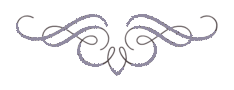
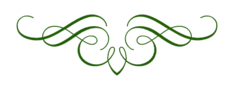
trying out florishes

diff --git a/index.html b/index.html
@@ -20,12 +20,8 @@
 		<div class="l-main-div">
 			<div class="l-main-content">
 				<h1>Kristie & Brandon</h1>
-				<img src="img/florish01.png" id="florish">
-				<p id="title-details">
-					<span class="large-type">Saturday, 5 July 2014</span><br/>
-					<span>at</span><br/>
-					<span class="large-type">California Academy of Sciences</span>
-				</p>
+				<img src="img/florish02.png" id="florish">
+				<br/>
 				<img src="img/kb.jpg" id="fungtoy">
 				<div class="categories">
 					<ul>
@@ -44,6 +40,7 @@
 			<div class="l-content-div" id="adventure">
 				<div class="section">
 					<h2>How We Met</h2>
+					<img src="img/florish03.png" class="florish-mini">
 					<p>
 						Brandon and Kristie started working together in the Finance Department at Rocketdyne in 2007. What started out as group co-worker lunches and a mutual dislike of work quickly developed into a close friendship once they realized they shared more than those two common interests. One likeness that caught both their attention was their music libraries - meticulously organized by period, genre, artist, and album. Kristie's heart went pitter-patter at the sight of Brandon's five page list of music she loved.
 					</p>
@@ -53,6 +50,7 @@
 				</div>
 				<div class="section">
 					<h2>The Engagement</h2>
+					<img src="img/florish03.png" class="florish-mini">
 					<p>Friday the 13th, December 2013:</p>
 					<p>
 						I came home from a girl's night out and Brandon suggested exchanging Christmas presents early because I was headed home to Daly City to spend Christmas with my family. As soon as he suggested it, I started running around the house searching every room for my present. He finally made me sit on the couch and told me not to move. I sat impatiently waiting... until Brandon brought a HUGE box from the back room. He was having trouble dragging the box out -- and for some reason, I got it in my head that the gift was a puppy! While he dragged the box, he accidentally kicked it and I thought, "Oh my god, a puppy!!! Wait -- oh my god, I'm not ready for a puppy! I'm leaving in a couple days! It's going to tear the house apart!"
@@ -63,6 +61,7 @@
 				</div>
 				<div class="section">
 					<h2>The Bride</h2>
+					<img src="img/florish03.png" class="florish-mini">
 					<p>Five things I love about my soon-to-be-wife:</p>
 					<ul>
 						<li>She's a genuine people-person. Kristie can talk to anyone about anything and leave them feeling better about themselves. In all of her disparate groups of friends, she is the glue that holds the group together.</li>
@@ -74,6 +73,7 @@
 				</div>
 				<div class="section">
 					<h2>The Groom</h2>
+					<img src="img/florish03.png" class="florish-mini">
 					<p>Five things I love about my soon-to-be-husband:</p>
 					<ul>
 						<li>He's witty: he sends me into fits of giggles and stomach-rolling with his deadpan comments and jokes that come out of nowhere.</li>
@@ -88,6 +88,7 @@
 			<div class="l-content-div clearfix" id="wedding-party">
 				<div class="section clearfix">
 					<h2>The Bride's Party</h2>
+					<img src="img/florish02.png" class="florish-mini">
 					<div class="party">
 						<img src="img/jenn.jpg" class="party-image">
 						<h4>Jennifer Wong, Maid of Honor</h4>
@@ -106,6 +107,7 @@
 				</div>
 				<div class="section clearfix">
 					<h2>The Groom's Party</h2>
+					<img src="img/florish02.png" class="florish-mini">
 					<div class="party">
 						<img src="img/jon.jpg" class="party-image">
 						<h4>Jon Ang, Best Man</h4>
@@ -162,7 +164,7 @@
 			<div class="l-content-div" id="contact">
 				<div class="section">
 					<h2>Contact</h2>
-					<a href="mailto:kfungbtoy@gmail.com">kfungbtoy@gmail.com</a>
+					<p><a href="mailto:kfungbtoy@gmail.com">kfungbtoy@gmail.com</a></p>
 				</div>
 			</div>
 		</div>

diff --git a/css/style.css b/css/style.css
@@ -15,12 +15,21 @@ body {
   line-height: 1.25em; }
 
 h1, h2 {
+  margin-bottom: 0;
   font-family: "Codystar", Helvetica, sans-serif;
   text-align: center; }
 
 a {
   color: #6c51af;
   text-decoration: none; }
+
+.clearfix:after {
+  visibility: hidden;
+  display: block;
+  font-size: 0;
+  content: " ";
+  clear: both;
+  height: 0; }
 
 .l-main-div {
   display: block;
@@ -86,7 +95,6 @@ a {
   background-position: center; }
 
 .l-content-div {
-  clear: left;
   max-width: 1200px;
   margin: 50px auto;
   padding: 30px 50px;
@@ -105,6 +113,11 @@ a {
     list-style-image: url("../img/heart.png"); }
     .section ul li {
       margin-bottom: 3px; }
+
+.florish-mini {
+  display: block;
+  width: 100px;
+  margin: 0 auto; }
 
 #adventure .section {
   text-align: left; }

diff --git a/sass/style.scss b/sass/style.scss
@@ -13,6 +13,7 @@ body {
 }
 
 h1, h2 {
+	margin-bottom: 0;
 	font-family: $header-font-stack;
 	text-align: center;
 }
@@ -123,6 +124,12 @@ a {
 			margin-bottom: 3px;
 		}
 	}
+}
+
+.florish-mini {
+	display: block;
+	width: 100px;
+	margin: 0 auto;
 }
 
 #adventure {
